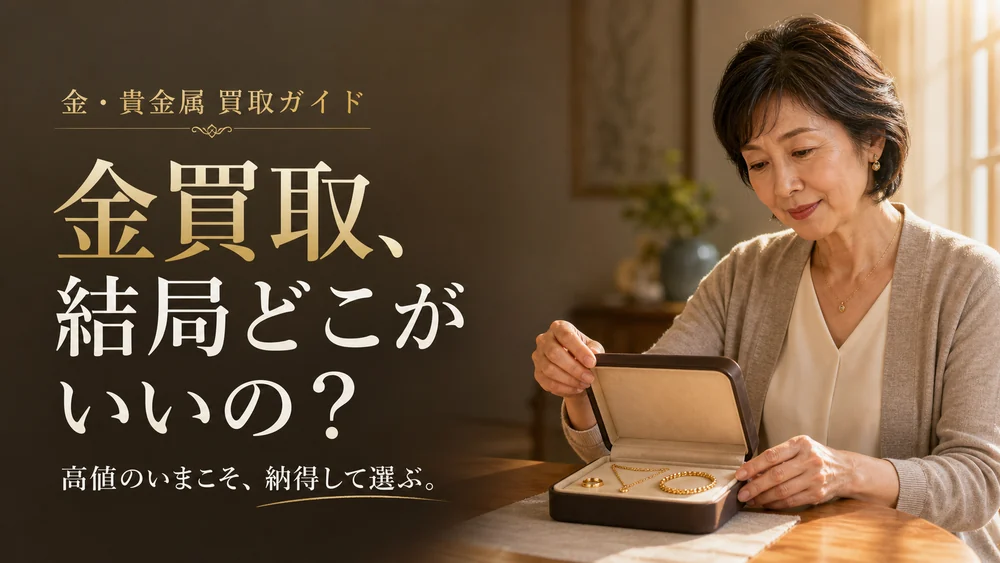
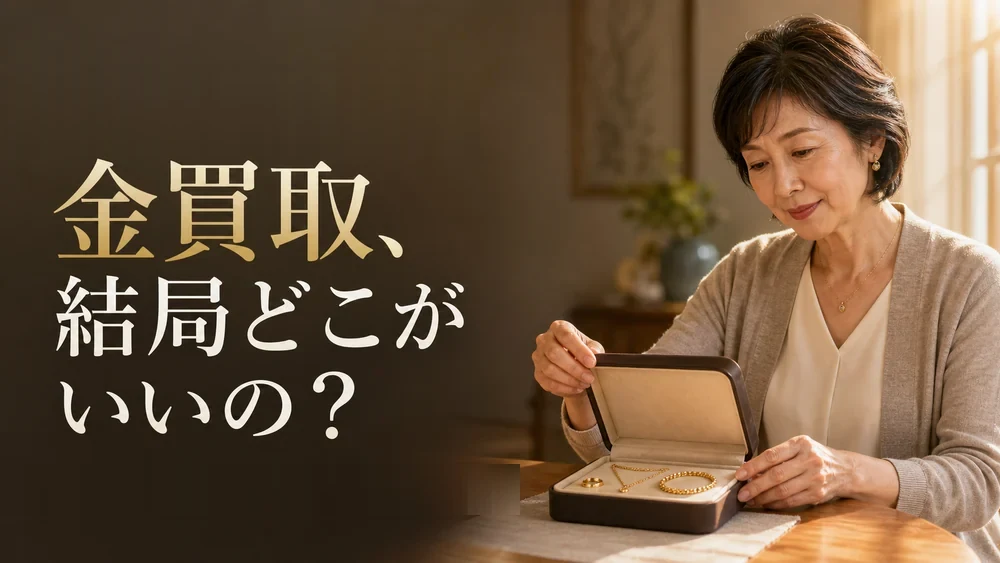
feat(manekiya-otakaraya): 上半分を大改修（透明性軸・9社比較・話し口調）
- FV画像：焼き込みの上下小文字を除去（大見出し・人物は保持）
- FV直下に特大の結論カード（高く売るなら=まねきや／手早く売るなら=おたからや）
- 筆者の立ち位置＋「合う人・合わない人」を前半に追加（話し口調）
- 主要9社ガチ比較表（横スクロール・まねきや1位）と品目別・状況別表を地域ネックレスLPから移植
- h2を「帯見出し」化してブロックを明確化＋メリハリ強化
- 新CTAリンク（.kin-aff/.kin-pv）もCV計測対象に追加

Claude-Session: https://claude.ai/code/session_01K4WvoDwJe6sPifWWw9PGsY

diff --git a/public/manekiya-otakaraya/index.html b/public/manekiya-otakaraya/index.html
@@ -58,24 +58,105 @@
 
   <div class="entry-content">
 
-    <!-- ============ 結論 ============ -->
-    <h2 class="kin-conclusion-title"><span>結論</span>金・貴金属を売るなら、<strong class="em-mark">この2社</strong></h2>
-
-    <div class="kin-pick2">
-      <a class="kin-choice kin-choice--manekiya" href="https://ad-fam.com/ad/p/r?_site=49248&_article=16522" target="_blank" rel="sponsored nofollow noopener noreferrer" aria-label="条件に合うなら、まずまねきやの公式サイトを確認する">
-        <span class="kin-banner-label">まねきや <small>PR</small></span>
-        <img class="kin-choice__image" src="images/banner-manekiya.webp" alt="金・貴金属を売るなら、高価買取専門店まねきやへ。他店と比較してください。" width="300" height="300" loading="eager">
+    <!-- ============ 結論（ひと目で優劣） ============ -->
+    <div class="kin-pick-verdict">
+      <a class="kin-pv kin-pv--1 kin-aff" href="https://ad-fam.com/ad/p/r?_site=49248&_article=16522" target="_blank" rel="sponsored nofollow noopener noreferrer">
+        <span class="kin-pv__label">高く売るなら</span>
+        <span class="kin-pv__name">まねきや <i>▶</i></span>
+        <span class="kin-pv__sub"><b>手取り重視ならこっち。</b>本日の相場を公開してるから、<b>抜かれてないか自分で確認できる</b>数少ない店。<small>PR</small></span>
       </a>
-      <a class="kin-choice kin-choice--otakaraya" href="https://www.otakaraya.jp/" target="_blank" rel="noopener noreferrer" aria-label="近くで同日に比較するなら、おたからやの公式サイトを確認する">
-        <span class="kin-banner-label">おたからや <small>PR</small></span>
-        <img class="kin-choice__image" src="images/banner-otakaraya.webp" alt="おたからや。変形や切れた金製品もまず金額をチェック。" width="300" height="300" loading="eager">
+      <a class="kin-pv kin-pv--2" href="https://www.otakaraya.jp/" target="_blank" rel="noopener noreferrer">
+        <span class="kin-pv__label">手早く売るなら</span>
+        <span class="kin-pv__name">おたからや <i>▶</i></span>
+        <span class="kin-pv__sub"><b>近くて速いならこっち。</b>とにかく店舗が多くて、年中無休・最短5分。急ぎならアリ。<small>PR</small></span>
       </a>
     </div>
 
-    <div class="kin-official-cta" aria-label="2社の公式サイト">
-      <a class="kin-official-cta__manekiya" href="https://ad-fam.com/ad/p/r?_site=49248&_article=16522" target="_blank" rel="sponsored nofollow noopener noreferrer">まねきや公式サイトを見る ↗</a>
-      <a class="kin-official-cta__otakaraya" href="https://www.otakaraya.jp/" target="_blank" rel="noopener noreferrer">おたからや公式サイトを見る ↗</a>
+    <!-- 筆者の立ち位置 -->
+    <div class="kin-author">
+      <p>この記事、正直に書きますね。金の買取店って、どこも「業界最高値！」ばっかりで、正直どこが違うのか分からないですよね。いちばん知りたいのは<strong class="em-mark">「結局、いくらで売れるの？」</strong>なのに。</p>
+      <p>なので、<strong>金・貴金属をやってる主要9社を1社ずつ</strong>、公式の買取条件・手数料・実績・口コミまで<strong>ぜんぶ調べ倒して</strong>、「金を“手取り”で高く売れそうな順」に並べてみました。結論から言うと、いちばん上の2社に絞って大丈夫でした。</p>
     </div>
+
+    <!-- 合う人・合わない人 -->
+    <div class="kin-fit">
+      <div class="kin-fit__col kin-fit__col--yes">
+        <p class="kin-fit__h">この記事が役に立つ人</p>
+        <ul>
+          <li>金・喜平・切れたネックレス・金歯を<b>1円でも高く</b>売りたい</li>
+          <li>「手数料無料」って言われて<b>結局いくら引かれてるの？</b>と思う</li>
+          <li>まず<b>相場と手取りの目安</b>を自分で知ってから売りたい</li>
+          <li>何社か見せて<b>比べてから</b>決めたい</li>
+        </ul>
+      </div>
+      <div class="kin-fit__col kin-fit__col--no">
+        <p class="kin-fit__h">たぶん合わない人</p>
+        <ul>
+          <li>金額より<b>今日すぐ現金化</b>が最優先（→おたからや向き）</li>
+          <li>家具・家電など<b>金以外の不用品もまとめて</b>処分したい</li>
+          <li>着物・切手・古銭がメイン（→その道の専門店が上）</li>
+        </ul>
+      </div>
+    </div>
+
+    <!-- ============ 9社比較 ============ -->
+    <h2>金を高く売れるのは？主要9社ガチ比較</h2>
+    <p>金・貴金属の買取リサーチ（2026年7月）をもとに、金を“手取り”で高く売る目線で並べました。1位のまねきやは<strong>PR（広告）を含みます</strong>。他社の店名は各社公式サイトへのリンクです。</p>
+    <div class="kin-cmp9-note">👉 横にスクロールして全社見られます</div>
+    <div class="kin-cmp9-wrap">
+      <table class="kin-cmp9">
+            <thead><tr><th class="cmp9-sh">店名</th><th>金ネックレス適性</th><th>主な向き先</th><th>キャンペーン・特典</th><th>手数料・費用</th><th>買取方法</th><th>状態不良品</th><th>強い品目</th><th>注意点</th></tr></thead>
+            <tbody>
+              <tr class="cmp9-row cmp9-win"><th class="cmp9-sh"><span class="cmp9-rank">1位</span><a class="kin-aff" href="https://ad-fam.com/ad/p/r?_site=49248&_article=16522" target="_blank" rel="sponsored nofollow noopener noreferrer">まねきや</a></th><td class="cmp9-tek"><span class="tekisei-a">◎</span></td><td>金ネックレスを手取り重視で売りたい人</td><td class="cmp9-cp">7月限定、電話査定予約で買取金額<b>最大30%UP</b>＋金買取手数料10%<b>無料</b></td><td>査定料・出張料・キャンセル料0円</td><td>店頭・出張・宅配</td><td>◎ 切れた金・刻印不明・金歯・古い金も相談候補</td><td>金・貴金属・宝石・時計・ブランド・古銭</td><td class="cmp9-note">キャンペーンは金ネックレス向け。金貨・インゴット・地金・プラチナは対象外</td></tr>
+              <tr class="cmp9-row"><th class="cmp9-sh"><span class="cmp9-rank">2位</span><a href="https://www.otakaraya.jp/" target="_blank" rel="nofollow noopener">おたからや</a></th><td class="cmp9-tek"><span class="tekisei-b">○</span></td><td>大手店舗網で直接相談したい人</td><td class="cmp9-cp">現金<b>10万円</b>プレゼント（抽選10名様・5,000円以上ご成約）</td><td>査定料・出張料・手数料0円</td><td>店頭・出張</td><td>◎ 他社で難しい品も相談候補</td><td>金・貴金属・宝石・ブランド・切手・古銭・骨董</td><td class="cmp9-note">FC/直営混在で店舗差に注意。宅配は主軸にしない</td></tr>
+              <tr class="cmp9-row"><th class="cmp9-sh"><span class="cmp9-rank">3位</span><a href="https://brandrevalue.com/" target="_blank" rel="nofollow noopener">ブラリバ</a></th><td class="cmp9-tek"><span class="tekisei-b">○</span></td><td>金に宝石やブランド価値が付く品を売りたい人</td><td class="cmp9-cp">初回限定 査定金額20%UP系</td><td>査定無料。詳細条件は公式確認</td><td>店頭・宅配・出張・LINE/WEB</td><td>○ 個別判断</td><td>ブランド・時計・バッグ・宝石・金・ジュエリー</td><td class="cmp9-note">純粋な地金より宝石・ブランド込みの品に強い</td></tr>
+              <tr class="cmp9-row"><th class="cmp9-sh"><span class="cmp9-rank">4位</span><a href="https://nanboya.com/" target="_blank" rel="nofollow noopener">なんぼや</a></th><td class="cmp9-tek"><span class="tekisei-b">○</span></td><td>ブランドジュエリー・時計も一緒に売りたい人</td><td class="cmp9-cp">新規限定5,000円上乗せ。月次キャンペーン実績</td><td>宅配送料・返送料・査定料・キャンセル料0円</td><td>店頭・宅配・出張・オンライン</td><td>○</td><td>ブランド・時計・バッグ・金・宝石・ジュエリー</td><td class="cmp9-note">金ネックレス単体よりブランド/石付き/時計とのまとめ売りで強い</td></tr>
+              <tr class="cmp9-row"><th class="cmp9-sh"><span class="cmp9-rank">5位</span><a href="https://kaitori.e-daikoku.com/" target="_blank" rel="nofollow noopener">大黒屋</a></th><td class="cmp9-tek"><span class="tekisei-b">○</span></td><td>時計・ブランド・酒・金券もまとめたい人</td><td class="cmp9-cp">ブランドジュエリー10%UP など</td><td>宅配送料・返送料・振込手数料0円</td><td>店頭・宅配・出張・LINE</td><td>○</td><td>時計・ブランド・金・宝石・酒・金券・スマホ</td><td class="cmp9-note">金専門というより総合買取・質・金券の利便性が強み</td></tr>
+              <tr class="cmp9-row"><th class="cmp9-sh"><span class="cmp9-rank">6位</span><a href="https://komehyo.jp/kaitori/" target="_blank" rel="nofollow noopener">コメ兵</a></th><td class="cmp9-tek"><span class="tekisei-b">○</span></td><td>信頼性重視でブランド品を売りたい人</td><td class="cmp9-cp">買取金額 MAX10%UP</td><td>宅配送料・返送料・キャンセル料0円</td><td>店頭・宅配・出張・LINE</td><td>○</td><td>ブランド・時計・ジュエリー・バッグ・衣料・カメラ</td><td class="cmp9-note">ノーブランド地金だけなら上位専門店と相見積もり推奨</td></tr>
+              <tr class="cmp9-row"><th class="cmp9-sh"><span class="cmp9-rank">7位</span><a href="https://goldplaza.jp/" target="_blank" rel="nofollow noopener">ゴールドプラザ</a></th><td class="cmp9-tek"><span class="tekisei-b">○</span></td><td>喜平・金貨・パール・ジュエリーを売りたい人</td><td class="cmp9-cp">喜平/24金投資系金貨 相場100%、ジュエリー20%UP など</td><td>査定料無料。宅配返送は条件確認</td><td>店頭・宅配・出張・LINE</td><td>△</td><td>金・プラチナ・喜平・金貨・ダイヤ・ブランドジュエリー</td><td class="cmp9-note">関東・関西中心。対象条件が細かい</td></tr>
+              <tr class="cmp9-row"><th class="cmp9-sh"><span class="cmp9-rank">8位</span><a href="https://buysell-kaitori.com/" target="_blank" rel="nofollow noopener">バイセル</a></th><td class="cmp9-tek"><span class="tekisei-c">△</span></td><td>家にある品を出張でまとめて見てほしい人</td><td class="cmp9-cp">抽選で買取金額5倍</td><td>査定料等0円。宅配キャンセル返送料は利用者負担</td><td>出張・店頭・宅配</td><td>○</td><td>着物・切手・古銭・骨董・毛皮・金・宝石</td><td class="cmp9-note">金ネックレス単体より遺品整理・着物・切手など大量整理向き</td></tr>
+              <tr class="cmp9-row"><th class="cmp9-sh"><span class="cmp9-rank">9位</span><a href="https://jewel-cafe.jp/" target="_blank" rel="nofollow noopener">ジュエルカフェ</a></th><td class="cmp9-tek"><span class="tekisei-c">△〜○</span></td><td>モール内で気軽に査定したい人</td><td class="cmp9-cp">買取金額20%UP系・店舗限定</td><td>査定料・出張料・宅配送料無料系。返送料要確認</td><td>店頭・宅配・出張</td><td>○</td><td>金・ブランド・時計・金券・切手・酒・化粧品</td><td class="cmp9-note">店舗限定条件が多い。高額品は専門店と相見積もり</td></tr>
+            </tbody>
+          </table>
+    </div>
+    <p class="kin-note">※順位・◎○△は各社公式の記載・買取実績・キャンペーンにもとづく当編集部の主観的な比較です（2026年7月時点）。買取価格の優劣を保証するものではありません。「最大」「相場100%」等は対象品・上限・併用条件があり、最新の適用条件は各社公式でご確認ください。</p>
+
+    <!-- ============ 品目別・状況別 ============ -->
+    <h2>売りたい物・状況で選ぶ</h2>
+    <p>同じ「金」でも、状態やブランドの有無で向いてる店は変わります。第一候補と、あわせて比べたい店をまとめました。</p>
+    <div class="kin-sell-wrap">
+      <table class="kin-sell">
+            <thead><tr><th>売りたい物・状況</th><th>おすすめの店</th><th>理由</th></tr></thead>
+            <tbody>
+              <tr><th class="sell-situ">K18金ネックレス</th><td class="sell-pick"><b class="sell-first"><a class="kin-aff" href="https://ad-fam.com/ad/p/r?_site=49248&_article=16522" target="_blank" rel="sponsored nofollow noopener noreferrer">まねきや</a></b><span class="sell-comp">あわせて比較：<a href="https://www.otakaraya.jp/" target="_blank" rel="nofollow noopener">おたからや</a> / <a href="https://goldplaza.jp/" target="_blank" rel="nofollow noopener">ゴールドプラザ</a></span></td><td class="sell-why">まねきやの30%UP＋手数料無料の訴求が金ネックレスと相性が良い</td></tr>
+              <tr><th class="sell-situ">切れた金ネックレス</th><td class="sell-pick"><b class="sell-first"><a class="kin-aff" href="https://ad-fam.com/ad/p/r?_site=49248&_article=16522" target="_blank" rel="sponsored nofollow noopener noreferrer">まねきや</a></b><span class="sell-comp">あわせて比較：<a href="https://www.otakaraya.jp/" target="_blank" rel="nofollow noopener">おたからや</a> / <a href="https://jewel-cafe.jp/" target="_blank" rel="nofollow noopener">ジュエルカフェ</a></span></td><td class="sell-why">状態不良でも金として査定候補。手数料無料の訴求が強い</td></tr>
+              <tr><th class="sell-situ">刻印が薄い・刻印なしの金</th><td class="sell-pick"><b class="sell-first"><a class="kin-aff" href="https://ad-fam.com/ad/p/r?_site=49248&_article=16522" target="_blank" rel="sponsored nofollow noopener noreferrer">まねきや</a></b><span class="sell-comp">あわせて比較：<a href="https://www.otakaraya.jp/" target="_blank" rel="nofollow noopener">おたからや</a> / <a href="https://nanboya.com/" target="_blank" rel="nofollow noopener">なんぼや</a></span></td><td class="sell-why">X線・成分確認の訴求と相性が良い</td></tr>
+              <tr><th class="sell-situ">金歯・小さな金片</th><td class="sell-pick"><b class="sell-first"><a class="kin-aff" href="https://ad-fam.com/ad/p/r?_site=49248&_article=16522" target="_blank" rel="sponsored nofollow noopener noreferrer">まねきや</a></b><span class="sell-comp">あわせて比較：<a href="https://www.otakaraya.jp/" target="_blank" rel="nofollow noopener">おたからや</a></span></td><td class="sell-why">少量でも金として見てもらう導線に向く</td></tr>
+              <tr><th class="sell-situ">金貨・インゴット・地金</th><td class="sell-pick"><b class="sell-first"><a href="https://www.otakaraya.jp/" target="_blank" rel="nofollow noopener">おたからや</a></b><span class="sell-comp">あわせて比較：<a href="https://goldplaza.jp/" target="_blank" rel="nofollow noopener">ゴールドプラザ</a> / <a href="https://kaitori.e-daikoku.com/" target="_blank" rel="nofollow noopener">大黒屋</a></span></td><td class="sell-why">まねきやのキャンペーン対象外。店舗網が大きく相談しやすいおたからやが第一候補</td></tr>
+              <tr><th class="sell-situ">ダイヤ・宝石付きネックレス</th><td class="sell-pick"><b class="sell-first"><a href="https://brandrevalue.com/" target="_blank" rel="nofollow noopener">ブラリバ</a></b><span class="sell-comp">あわせて比較：<a href="https://nanboya.com/" target="_blank" rel="nofollow noopener">なんぼや</a> / <a href="https://komehyo.jp/kaitori/" target="_blank" rel="nofollow noopener">コメ兵</a> / <a class="kin-aff" href="https://ad-fam.com/ad/p/r?_site=49248&_article=16522" target="_blank" rel="sponsored nofollow noopener noreferrer">まねきや</a></span></td><td class="sell-why">地金＋石・ブランド価値も見てほしい場合に向く</td></tr>
+              <tr><th class="sell-situ">ブランドジュエリー</th><td class="sell-pick"><b class="sell-first"><a href="https://brandrevalue.com/" target="_blank" rel="nofollow noopener">ブラリバ</a></b><span class="sell-comp">あわせて比較：<a href="https://nanboya.com/" target="_blank" rel="nofollow noopener">なんぼや</a> / <a href="https://komehyo.jp/kaitori/" target="_blank" rel="nofollow noopener">コメ兵</a> / <a href="https://kaitori.e-daikoku.com/" target="_blank" rel="nofollow noopener">大黒屋</a></span></td><td class="sell-why">ブランド価値の評価が重要</td></tr>
+              <tr><th class="sell-situ">ロレックス・高級時計も一緒に売る</th><td class="sell-pick"><b class="sell-first"><a href="https://nanboya.com/" target="_blank" rel="nofollow noopener">なんぼや</a></b><span class="sell-comp">あわせて比較：<a href="https://komehyo.jp/kaitori/" target="_blank" rel="nofollow noopener">コメ兵</a> / <a href="https://kaitori.e-daikoku.com/" target="_blank" rel="nofollow noopener">大黒屋</a> / <a href="https://brandrevalue.com/" target="_blank" rel="nofollow noopener">ブラリバ</a></span></td><td class="sell-why">時計・ブランドの販路と査定実績が重要</td></tr>
+              <tr><th class="sell-situ">ブランドバッグも一緒に売る</th><td class="sell-pick"><b class="sell-first"><a href="https://komehyo.jp/kaitori/" target="_blank" rel="nofollow noopener">コメ兵</a></b><span class="sell-comp">あわせて比較：<a href="https://nanboya.com/" target="_blank" rel="nofollow noopener">なんぼや</a> / <a href="https://kaitori.e-daikoku.com/" target="_blank" rel="nofollow noopener">大黒屋</a> / <a href="https://brandrevalue.com/" target="_blank" rel="nofollow noopener">ブラリバ</a></span></td><td class="sell-why">バッグ・時計・ジュエリーのまとめ売りに強い</td></tr>
+              <tr><th class="sell-situ">着物・切手・古銭も家にある</th><td class="sell-pick"><b class="sell-first"><a href="https://buysell-kaitori.com/" target="_blank" rel="nofollow noopener">バイセル</a></b><span class="sell-comp">あわせて比較：<a href="https://www.otakaraya.jp/" target="_blank" rel="nofollow noopener">おたからや</a> / <a href="https://jewel-cafe.jp/" target="_blank" rel="nofollow noopener">ジュエルカフェ</a></span></td><td class="sell-why">出張で大量整理しやすい</td></tr>
+              <tr><th class="sell-situ">金券・お酒も売りたい</th><td class="sell-pick"><b class="sell-first"><a href="https://kaitori.e-daikoku.com/" target="_blank" rel="nofollow noopener">大黒屋</a></b><span class="sell-comp">あわせて比較：<a href="https://jewel-cafe.jp/" target="_blank" rel="nofollow noopener">ジュエルカフェ</a> / <a href="https://www.otakaraya.jp/" target="_blank" rel="nofollow noopener">おたからや</a></span></td><td class="sell-why">金券・酒・総合換金品に強い</td></tr>
+              <tr><th class="sell-situ">近所のモールで気軽に査定</th><td class="sell-pick"><b class="sell-first"><a href="https://jewel-cafe.jp/" target="_blank" rel="nofollow noopener">ジュエルカフェ</a></b><span class="sell-comp">あわせて比較：<a href="https://www.otakaraya.jp/" target="_blank" rel="nofollow noopener">おたからや</a> / <a href="https://kaitori.e-daikoku.com/" target="_blank" rel="nofollow noopener">大黒屋</a></span></td><td class="sell-why">店舗に入りやすく、少量査定と相性が良い</td></tr>
+              <tr><th class="sell-situ">宅配で比較したい</th><td class="sell-pick"><b class="sell-first"><a href="https://nanboya.com/" target="_blank" rel="nofollow noopener">なんぼや</a></b><span class="sell-comp">あわせて比較：<a href="https://kaitori.e-daikoku.com/" target="_blank" rel="nofollow noopener">大黒屋</a> / <a href="https://komehyo.jp/kaitori/" target="_blank" rel="nofollow noopener">コメ兵</a></span></td><td class="sell-why">返送料まで無料の条件が強い</td></tr>
+              <tr><th class="sell-situ">出張でまとめて売りたい</th><td class="sell-pick"><b class="sell-first"><a href="https://buysell-kaitori.com/" target="_blank" rel="nofollow noopener">バイセル</a></b><span class="sell-comp">あわせて比較：<a href="https://www.otakaraya.jp/" target="_blank" rel="nofollow noopener">おたからや</a> / <a class="kin-aff" href="https://ad-fam.com/ad/p/r?_site=49248&_article=16522" target="_blank" rel="sponsored nofollow noopener noreferrer">まねきや</a></span></td><td class="sell-why">家の整理・大量品の導線に向く</td></tr>
+            </tbody>
+          </table>
+    </div>
+
+    <div class="kin-cta-block">
+      <p class="kin-cta-block__head">まずは「今いくら？」だけ、タダで確かめる。</p>
+      <a class="kin-phone" href="https://ad-fam.com/ad/p/r?_site=49248&_article=16522" target="_blank" rel="sponsored nofollow noopener noreferrer">
+        <span class="kin-phone__badge">電話予約で最大30%UP</span>
+        <span class="kin-phone__num">電話で査定を予約する</span>
+        <span class="kin-phone__sub">受付 9:00〜21:00／通話無料</span>
+      </a>
+      <a class="kin-cta kin-cta--web" href="https://ad-fam.com/ad/p/r?_site=49248&_article=16522" target="_blank" rel="sponsored nofollow noopener noreferrer">WEBで査定を予約する（1分）</a>
+      <span class="kin-cta__note">査定だけ・相談だけでもOK。断っても費用は一切かかりません。</span>
+    </div>
+
 
     <p>この2社なら、大きく外すことはありません。まずは、金を売るときに多くの人が迷う点を整理してから、<strong>「なぜ、数ある店の中でこの2社なのか」</strong>を説明します。</p>
 
@@ -815,7 +896,7 @@
       return u.toString();
     }catch(_){ return raw; }
   }
-  var SEL = ".kin-phone, .kin-cta--web, .kin-fixed-tel, .kin-fixed-web, .kin-official-cta__manekiya, .kin-official-cta__otakaraya";
+  var SEL = ".kin-phone, .kin-cta--web, .kin-fixed-tel, .kin-fixed-web, .kin-official-cta__manekiya, .kin-official-cta__otakaraya, .kin-aff, .kin-pv";
   Array.prototype.forEach.call(document.querySelectorAll(SEL), function(el){
     var cls = el.className || "", href = el.getAttribute("href") || "";
     // おたからや公式のみ非成果。それ以外（まねきやアフィリンク）は成果CV

diff --git a/public/manekiya-otakaraya/style.css b/public/manekiya-otakaraya/style.css
@@ -292,29 +292,23 @@ a { color: #1b4f86; text-underline-offset: .25em; }
 /* =========================================================
    4. 見出し
    ========================================================= */
+/* 見出しは「帯」にしてブロックを明確に分ける（メリハリ／読みやすさ） */
 .entry-content h2 {
-  font-family: var(--mincho);
-  font-weight: 600;
-  font-size: clamp(21px, 5.6vw, 29px);
-  line-height: 1.75;
-  letter-spacing: .04em;
-  color: var(--sumi);
-  background: none;
+  font-family: var(--gothic);
+  font-weight: 800;
+  font-size: clamp(19px, 4.9vw, 25px);
+  line-height: 1.5;
+  letter-spacing: .01em;
+  color: #fff;
+  background: linear-gradient(100deg, #191f2e 0%, #2b3450 100%);
   border: none;
-  border-bottom: 1px solid var(--sumi);
-  padding: 0 0 .55em;
-  margin: 2.6em 0 1.5em;
+  border-left: 6px solid var(--gold-line);
+  padding: .62em .82em .62em .72em;
+  margin: 2.3em calc(-1 * var(--pad)) 1.05em;
   position: relative;
+  word-break: auto-phrase;
 }
-
-/* 見出し下線の左端だけ金にする */
-.entry-content h2::after {
-  content: "";
-  position: absolute;
-  left: 0; bottom: -1px;
-  width: 3.5em; height: 3px;
-  background: var(--gold-line);
-}
+.entry-content h2::after { content: none; }
 
 .entry-content h3 {
   font-family: var(--mincho);
@@ -1854,3 +1848,80 @@ h2, h3,
 @media (prefers-reduced-motion: reduce) {
   * { transition: none !important; animation: none !important; }
 }
+
+/* ============================================================
+   追加コンポーネント（改修：パッと優劣／9社表／品目別／合う人）
+   ============================================================ */
+
+/* FV直下の特大「結論」＝ひと目で優劣（老眼配慮で大きく） */
+.kin-pick-verdict { margin: 1.1em var(--pad) .3em; display: grid; gap: .6em; }
+.kin-pv {
+  display: block; padding: .9em 1em; border: 2px solid var(--rule);
+  border-radius: 13px; background: #fff; text-decoration: none !important;
+  box-shadow: 0 4px 14px rgba(20,20,20,.05);
+}
+.kin-pv--1 { border-color: var(--gold-line); background: var(--gold-bg); }
+.kin-pv__label {
+  display: inline-block; font-family: var(--gothic); font-weight: 800;
+  font-size: clamp(13px,3.7vw,15px); color: #fff; background: var(--alert);
+  padding: .28em .75em; border-radius: 6px; margin-bottom: .4em;
+}
+.kin-pv--2 .kin-pv__label { background: #5e6775; }
+.kin-pv__name {
+  display: block; font-family: var(--gothic); font-weight: 900;
+  font-size: clamp(27px,8.4vw,40px); color: var(--sumi); line-height: 1.12;
+}
+.kin-pv__name i { font-style: normal; color: var(--gold); font-size: .58em; vertical-align: .1em; }
+.kin-pv__sub { display: block; font-size: clamp(13.5px,3.8vw,16px); color: #3a3f4a; margin-top: .35em; line-height: 1.55; }
+.kin-pv__sub b { color: var(--sumi); }
+
+/* 9社比較表（横スクロール・まねきや1位） */
+.kin-cmp9-note { font-size: 12px; color: var(--gold); font-weight: 700; margin: 0 var(--pad) .35em; }
+.kin-cmp9-wrap { overflow-x: auto; margin: 0 var(--pad); -webkit-overflow-scrolling: touch; border: 1px solid var(--rule); border-radius: 6px; }
+.kin-cmp9 { border-collapse: collapse; background: #fff; min-width: 800px; font-family: var(--gothic); }
+.kin-cmp9 th, .kin-cmp9 td { padding: 8px; font-size: 11px; line-height: 1.5; border-bottom: 1px solid var(--rule); border-right: 1px solid #eef0f3; text-align: left; vertical-align: top; min-width: 100px; }
+.kin-cmp9 thead th { background: var(--sumi); color: #fff; font-weight: 800; white-space: nowrap; text-align: center; position: sticky; top: 0; }
+.kin-cmp9 .cmp9-sh { min-width: 118px; white-space: nowrap; position: sticky; left: 0; z-index: 2; background: #f7f5f0; }
+.kin-cmp9 thead .cmp9-sh { background: var(--sumi); z-index: 3; }
+.kin-cmp9 .cmp9-win .cmp9-sh { background: var(--gold-bg) !important; }
+.kin-cmp9 .cmp9-win td { background: #fffdf6; }
+.kin-cmp9 .cmp9-rank { display: inline-block; font-size: 10px; font-weight: 800; color: #fff; background: var(--gold); border-radius: 5px; padding: 1px 5px; margin-right: 4px; }
+.kin-cmp9 .cmp9-win .cmp9-rank { background: var(--alert); }
+.kin-cmp9 a { color: var(--sumi); font-weight: 800; }
+.kin-cmp9 .cmp9-win a { color: var(--alert); }
+.kin-cmp9 .cmp9-cp b { color: var(--alert); }
+.kin-cmp9 .cmp9-note { color: var(--ink-sub); font-size: 10.5px; }
+.tekisei-a { color: var(--win); font-size: 16px; font-weight: 800; }
+.tekisei-b { color: #3b7fbf; font-size: 15px; }
+.tekisei-c { color: #9aa5ac; font-size: 14px; }
+
+/* 品目別・状況別で選ぶ表 */
+.kin-sell-wrap { overflow-x: auto; margin: 0 var(--pad); }
+.kin-sell { width: 100%; border-collapse: collapse; background: #fff; font-family: var(--gothic); }
+.kin-sell thead th { background: var(--sumi); color: #fff; font-weight: 800; font-size: 11.5px; padding: 8px 6px; text-align: center; }
+.kin-sell tbody th, .kin-sell tbody td { border-bottom: 1px solid var(--rule); padding: 9px 8px; font-size: 12px; line-height: 1.5; vertical-align: top; text-align: left; }
+.kin-sell .sell-situ { font-weight: 700; color: var(--sumi); background: #f7f5f0; }
+.kin-sell .sell-first { display: block; margin-bottom: .2em; }
+.kin-sell .sell-first a { color: var(--alert); }
+.kin-sell .sell-comp { display: block; font-size: 11px; color: var(--ink-sub); }
+.kin-sell a { color: var(--sumi); font-weight: 800; text-decoration: underline; text-underline-offset: 2px; }
+.kin-sell .sell-why { color: #3a3f4a; }
+
+/* 合う人・合わない人 */
+.kin-fit { display: grid; grid-template-columns: 1fr 1fr; gap: .7em; margin: 1.1em var(--pad); }
+.kin-fit__col { border: 1px solid var(--rule); border-radius: 12px; padding: .9em .9em 1em; background: #fff; }
+.kin-fit__col--yes { border-color: #bcd9c6; background: #f4faf6; }
+.kin-fit__col--no { border-color: #e6cfcb; background: #fbf5f4; }
+.kin-fit__h { font-family: var(--gothic); font-weight: 800; font-size: 15px; margin: 0 0 .55em; }
+.kin-fit__col--yes .kin-fit__h { color: var(--win); }
+.kin-fit__col--no .kin-fit__h { color: var(--alert); }
+.kin-fit ul { margin: 0; padding: 0; list-style: none; display: grid; gap: .5em; }
+.kin-fit li { font-size: 13.5px; line-height: 1.55; padding-left: 1.4em; position: relative; color: #2a2f39; }
+.kin-fit__col--yes li::before { content: "◎"; position: absolute; left: 0; color: var(--win); font-weight: 800; }
+.kin-fit__col--no li::before { content: "×"; position: absolute; left: 0; color: var(--alert); font-weight: 800; }
+@media (max-width: 560px) { .kin-fit { grid-template-columns: 1fr; } }
+
+/* 筆者の立ち位置（パーソナルな導入） */
+.kin-author { margin: 1.2em var(--pad); padding: 1em 1.1em; background: var(--bg); border: 1px solid var(--rule); border-left: 4px solid var(--gold-line); border-radius: 10px; }
+.kin-author p { margin: 0 0 .7em; }
+.kin-author p:last-child { margin-bottom: 0; }
